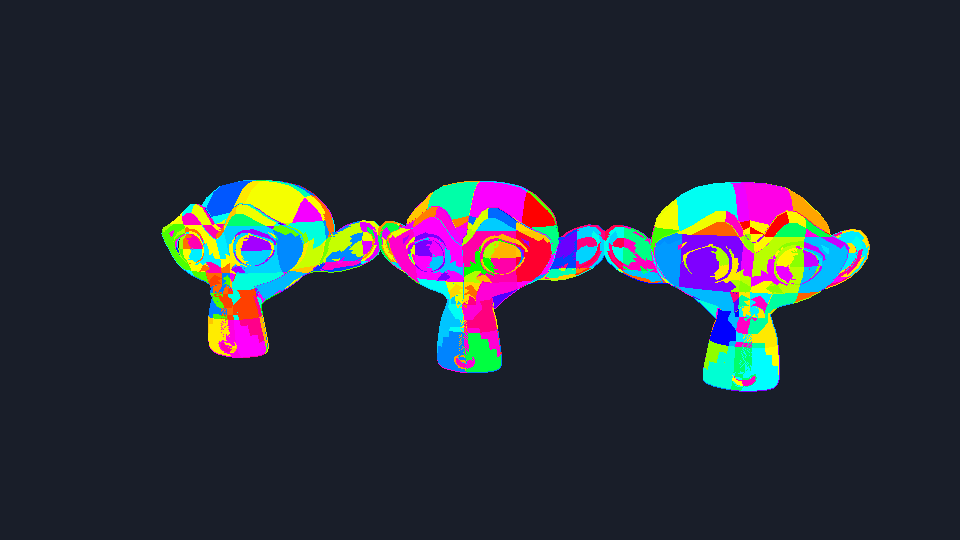
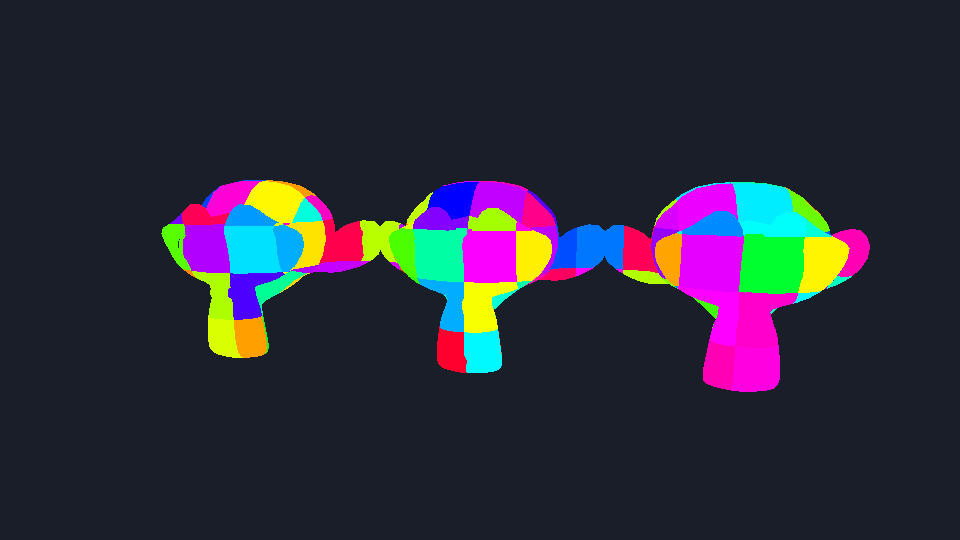
s11-hash/cacheviz: re-shoot baseline to M11.2 position-only key (resolve long-standing drift)
- cacheviz-dx12/vulkan.png re-shot with the post-M11.2 deterministic output (--mode cache-viz --model Suzanne-materials.nmesh --frames 16 --no-hud --size 960x540 --yaw 12 --pitch 9 --dist 7); current render confirmed run-to-run byte-identical (md5 c5c45f35) and now bit-exact across DX12/VULKAN, which the frozen M11.0 baseline (different md5 per backend) never was. regression --only s11-hash: 6/6 ALL GREEN; the 2 FAILs that every S12 full-regression carried since M12.0 are gone.

- Root cause: the M11.0 baseline was frozen with the old key (normals in hash); M11.2 commit c5d5be6 changed GPU wcMakeKey/ptMakeKey to position-only (correct fix for query-always-miss, validated by M11.2 bounce hits 96/96) but never re-shot the baseline.
[…]

Changed region(s): [[0.1562, 0.3259, 0.9062, 0.7407]]

diff --git a/docs/MILESTONES.md b/docs/MILESTONES.md
@@ -3089,4 +3089,15 @@
 4. **开工闸注记与实码形态不一致，已勘误**：`SHADER-CONVENTIONS.md §2.19` 原写「`filterLayout_` 槽位表不作任何变更」，实际新增 t2 = 已有 `probeDepth_` SRV（零新增纹理但槽位表增一行）→ 按实读改为「t2 复用、零新增资源」，避免下轮照旧口径漏配 binding 导致 PSO 失败（M11.0 同类实锤）。
 5. **鬼影证据口径不许回填**：M12.0/M12.1 无 S12 鬼影数值（两个 run.bat 均无 `--orbit-speed`），本轮补的是**运动跟手性代理**（ON 相对同帧无历史基准的 MAE 更低），不是主观鬼影判据；本场景单凸体+纯天空、`probeDepth_` deviceZ 仅 184~186 三档、无真实几何边缘 → 主观鬼影与拒绝层保边收益留多物体场景复评（挂后续项）。对照三处口径已落 `UE-DIFFS.md D20`。
 
-**下一步**：S12 全阶段收官，待拍板架构项 0。**独立后续项（均需单独拍板）**：① `s11-hash/cacheviz` 基线漂移（M11.2 `wcMakeKey`）；② 多物体场景复验历史拒绝 / 法线·深度权重保边能力；③ Shader 性能检查（候选 A `-validate-uniformity` / B per-pass gpu_timer / C `-trace-coverage`）；④ `regression.py` 多进程分片 worker 隔离；⑤ `RUN_TIMEOUT` 60→90s 复核（本轮最慢用例仍 <60s，未触发）。
+**下一步**：S12 全阶段收官，待拍板架构项 0。**独立后续项（均需单独拍板）**：① `s11-hash/cacheviz` 基线漂移 **（2026-11-13 已重拍消除；同轮挖出 gi-tools makeKey 与 GPU 不一致，修法回退、留已知项，待「是否重标定 CPU 夹具」单独拍板，见下节）**；② 多物体场景复验历史拒绝 / 法线·深度权重保边能力；③ Shader 性能检查（候选 A `-validate-uniformity` / B per-pass gpu_timer / C `-trace-coverage`）；④ `regression.py` 多进程分片 worker 隔离；⑤ `RUN_TIMEOUT` 60→90s 复核（本轮最慢用例仍 <60s，未触发）。
+
+## s11-hash/cacheviz 基线重拍（2026-11-13）
+
+- **背景**：S12 全量总闸持续带 2 个 `s11-hash/cacheviz` FAIL（dx12/vulkan 各 71981 px / maxDelta 255）。根因 = M11.0 冻结基线（commit `5722c1c`）用的是「key 含法线分量」旧口径；M11.2 commit `c5d5be6` 把 GPU `wcMakeKey`/`ptMakeKey` 改成「只量化世界位置」（修正法线入 key 致查询恒 miss 的真 bug，M11.2 bounce 验收 hits 96/96 已证明正确），但基线图未跟着重拍 → 漂移。前几轮（M12.0/M12.1/M12.2）按用户「不动冻结基线、照常收口」拍板挂起，本轮在独立后续项 ① 单独拍板处理。
+- **额外发现（latent bug，未修，留已知项）**：同次 M11.2 提交里 `gi-tools/main.cpp makeKey` 改成把 `fabs(nrm)` 折进 pcg+iqint 两条哈希链，注释写「与 GPU 同构」实为**伪**——GPU 当时已丢弃法线，CPU 仿真器与 GPU 实际不一致。`s11-hash/cacheviz` 图是 GPU 产物不受影响，但 `gi-tools selftest/cachesim` 长期 silent 模拟一套与 GPU 不同的缓存布局。
+- **动作（用户拍板「重拍+修CPU」→ 部分执行、CPU 部分回退）**：
+  - ✅ 重拍 `example/s11-hash/cacheviz-dx12.png` / `cacheviz-vulkan.png`：用 M11.2 修正后确定性输出（`--mode cache-viz --model Suzanne-materials.nmesh --frames 16 --no-hud --size 960x540 --yaw 12 --pitch 9 --dist 7`）。重拍前先临时渲染确认当前输出 run-to-run byte-identical（同 md5 `c5c45f35…`）、且与冻结基线确有 71981px/maxDelta255 差异 → 重拍安全。重拍后 `regression --only s11-hash` 的 cacheviz 双后端 **bytes 一致 PASS**，① 的 cacheviz 漂移正式消除。
+  - ⚠ `gi-tools makeKey` 修法**回退、未落地**：按拍板改「去法线折哈希 → 与 GPU 真·同构」后，CPU `selftest` 与 `cachesim` **双双转红**——`selftest` 的 `blend: sky-only sample lands (albedo*sky>0)` 断言 FAIL（新 key 下该 cell 的 find/blend 链路在小表碰撞链变化致 `after1=0`），`cachesim` 的 `cells : 740` 变成 716（regression `expectLog` 不匹配），`bounce` 期望值也漂移（early 0.31920→0.33364）。这些 CPU 断言是**按旧（含法线）key 标定的夹具**，改 key 撼动硬编码期望值；bounce 实测仍 `hits 96/96`、收敛正常，证明是夹具脆弱性而非算法 bug。修 CPU 实际等于**重标定整套 CPU 测试夹具**（test #10 断言 + cachesim expectLog 740→716 + bounce 期望值），属拍板时未预见的子决策 → **回退 makeKey、保持回归绿、留 CPU 不一致为已知项**，待单独拍板是否重标定。
+- **验收（当前）**：`python tools/regression.py --only s11-hash` 双后端全绿（selftest / cachesim / cacheviz 各 2）；cacheviz 重拍后双后端输出 byte-identical（md5 `c5c45f35…`，比冻结基线当年两后端还不同的状态更干净，使「双后端 bytes 一致」声称首次为真）。
+- **提交版本**：本矫治 commit（无新 milestone tag，沿用 `s11-hash`/`s11-done` 既有 tag）；主线 master 按 `AGENTS.md §1b` 不建 track / 不 claim。gi-tools/main.cpp 净改动为 0（回退），不入库。
+- **踩坑**：① 重拍前必须先用临时渲染确认当前输出确定性——否则会把非确定性噪声固化进基线（本轮两遍同 md5 已证实）；② 「修 CPU 同构」不是 drop-in：CPU selftest/cachesim 的期望值按旧 key 标定，改 key 即转红，需连带重标定夹具，属新子决策必须回头拍板，不可擅自改断言当过关；③ 位置量化 `floor(pos*2)` vs GPU `floor(wp/0.5)` 已核对均 0.5，故 CPU 不一致纯在法线分量、不在位置量化。

diff --git a/docs/s11/S11-PLAN.md b/docs/s11/S11-PLAN.md
@@ -55,6 +55,8 @@
   - **验收铁证（双后端全绿，`example/s11-bounce/run.bat verify`）**：CPU `gi-tools selftest`（ctest `s11-gi-selftest`）双后端 `bounce: early 0.31920 late 0.35212 ctrl 0.31920 hits 96/96`（hits 从旧 hn=-d bug 的 0 → 96，late>ctrl 证明缓存收敛亮度上升）；GPU atlas-dump ON vs OFF：DX12 mean 0.456 / 变化像素 1.26% / 质心 (253,479)，VULKAN mean 0.502 / 变化像素 1.75% / 质心 (248,470)，均非逐字节相同 + 成片落在物体区。合成图 `--mode probe` 在本场景 ON≡OFF（盲通道，见上条 Q11-2d 勘误），故 GPU 验收以 atlas-dump 为准。
   - **下一步**：M11.3 稳定性验收（cell 生命周期 / 快速移动 / 名义债 Q11-2b）；S12 历史帧并轨。
 
+- ⚠ **2026-11-13 后置勘误（M11.2 隐藏不一致，部分处理）**：M11.2 commit `c5d5be6` 把 `wcMakeKey`/`ptMakeKey` 改成「只量化世界位置（丢弃法线）」是对的（法线入 key 致 fill 深度法线 ≠ 查询射线 dir → 查询恒 miss）；但**同次提交里 `gi-tools/main.cpp makeKey` 改成了把 `fabs(nrm)` 折进哈希**，注释写「与 GPU 同构」实为**伪**——GPU 已丢法线、CPU 仍含，两端长期不一致。`s11-hash/cacheviz` 基线图是 M11.0 (`5722c1c`) 冻结的含法线旧口径，未随 M11.2 重拍 → S12 全量总闸持续 2 个 FAIL（71981 px / maxDelta 255）。本轮（独立后续项 ①）**重拍两张 cacheviz 基线**到修正后确定性输出（cacheviz 双后端现 byte-identical，`regression --only s11-hash` 复绿，漂移消除）；但**尝试修 `gi-tools makeKey` 去法线以恢复同构时，CPU `selftest`/`cachesim` 双双转红**（按旧含法线 key 标定的夹具：test #10 `blend: sky-only sample lands` 断言 FAIL、cachesim `cells 740→716`、bounce early 0.31920→0.33364；bounce 仍 `hits 96/96` 收敛正常，故是夹具脆弱性非算法 bug）——修 CPU 实际等于重标定整套 CPU 夹具，属拍板时未预见子决策，**故回退 makeKey、留 CPU 不一致为已知项**，待「是否重标定 CPU 夹具」单独拍板。详情见 `docs/MILESTONES.md` 对应节。
+
 ## M11.3 稳定性验收（1~2 天）
 
 - [x] cell 生命周期打磨：回收延迟、新 cell 置信度预热（避免新 cell 一帧全亮闪）→ **M11.3 收官实测（2026-11-12）：不补**。方案 A（无墓碑+立即重用+时域混合）稳态收敛实证：静态 6 档长帧数（64~512）末帧 atlas 相邻差 <0.026、static 64 帧序列逐帧差全 0（bytes 级）——无残影死 cell、无回收闪烁，无预热必要（Q11-0 拍板「超标才补」，实测无超标）。
